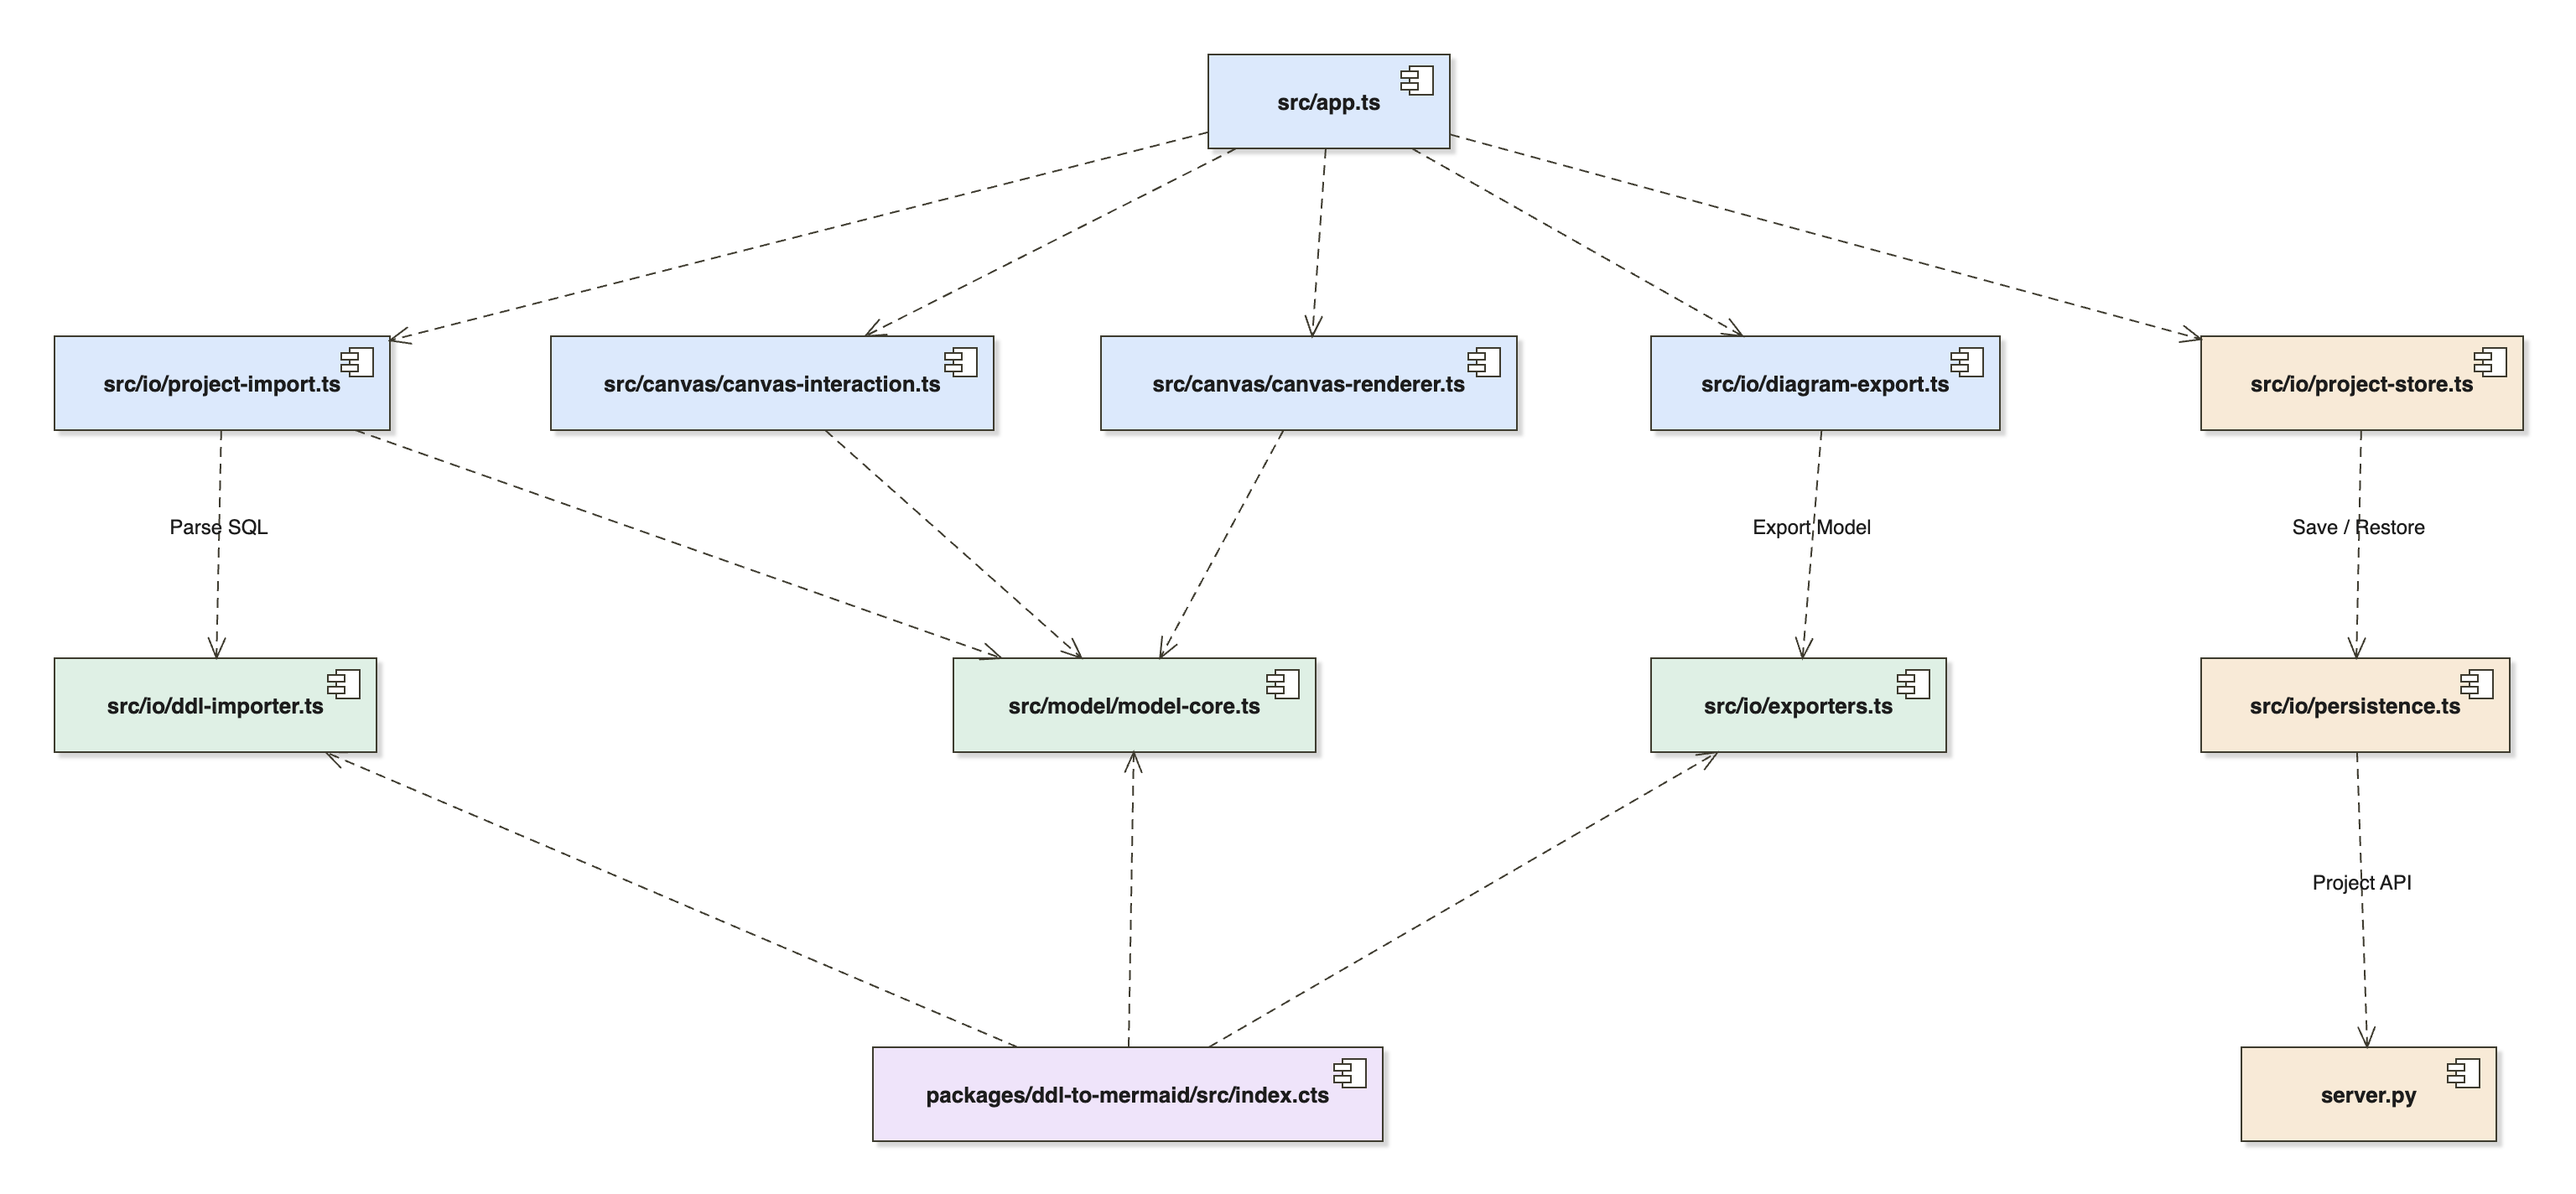
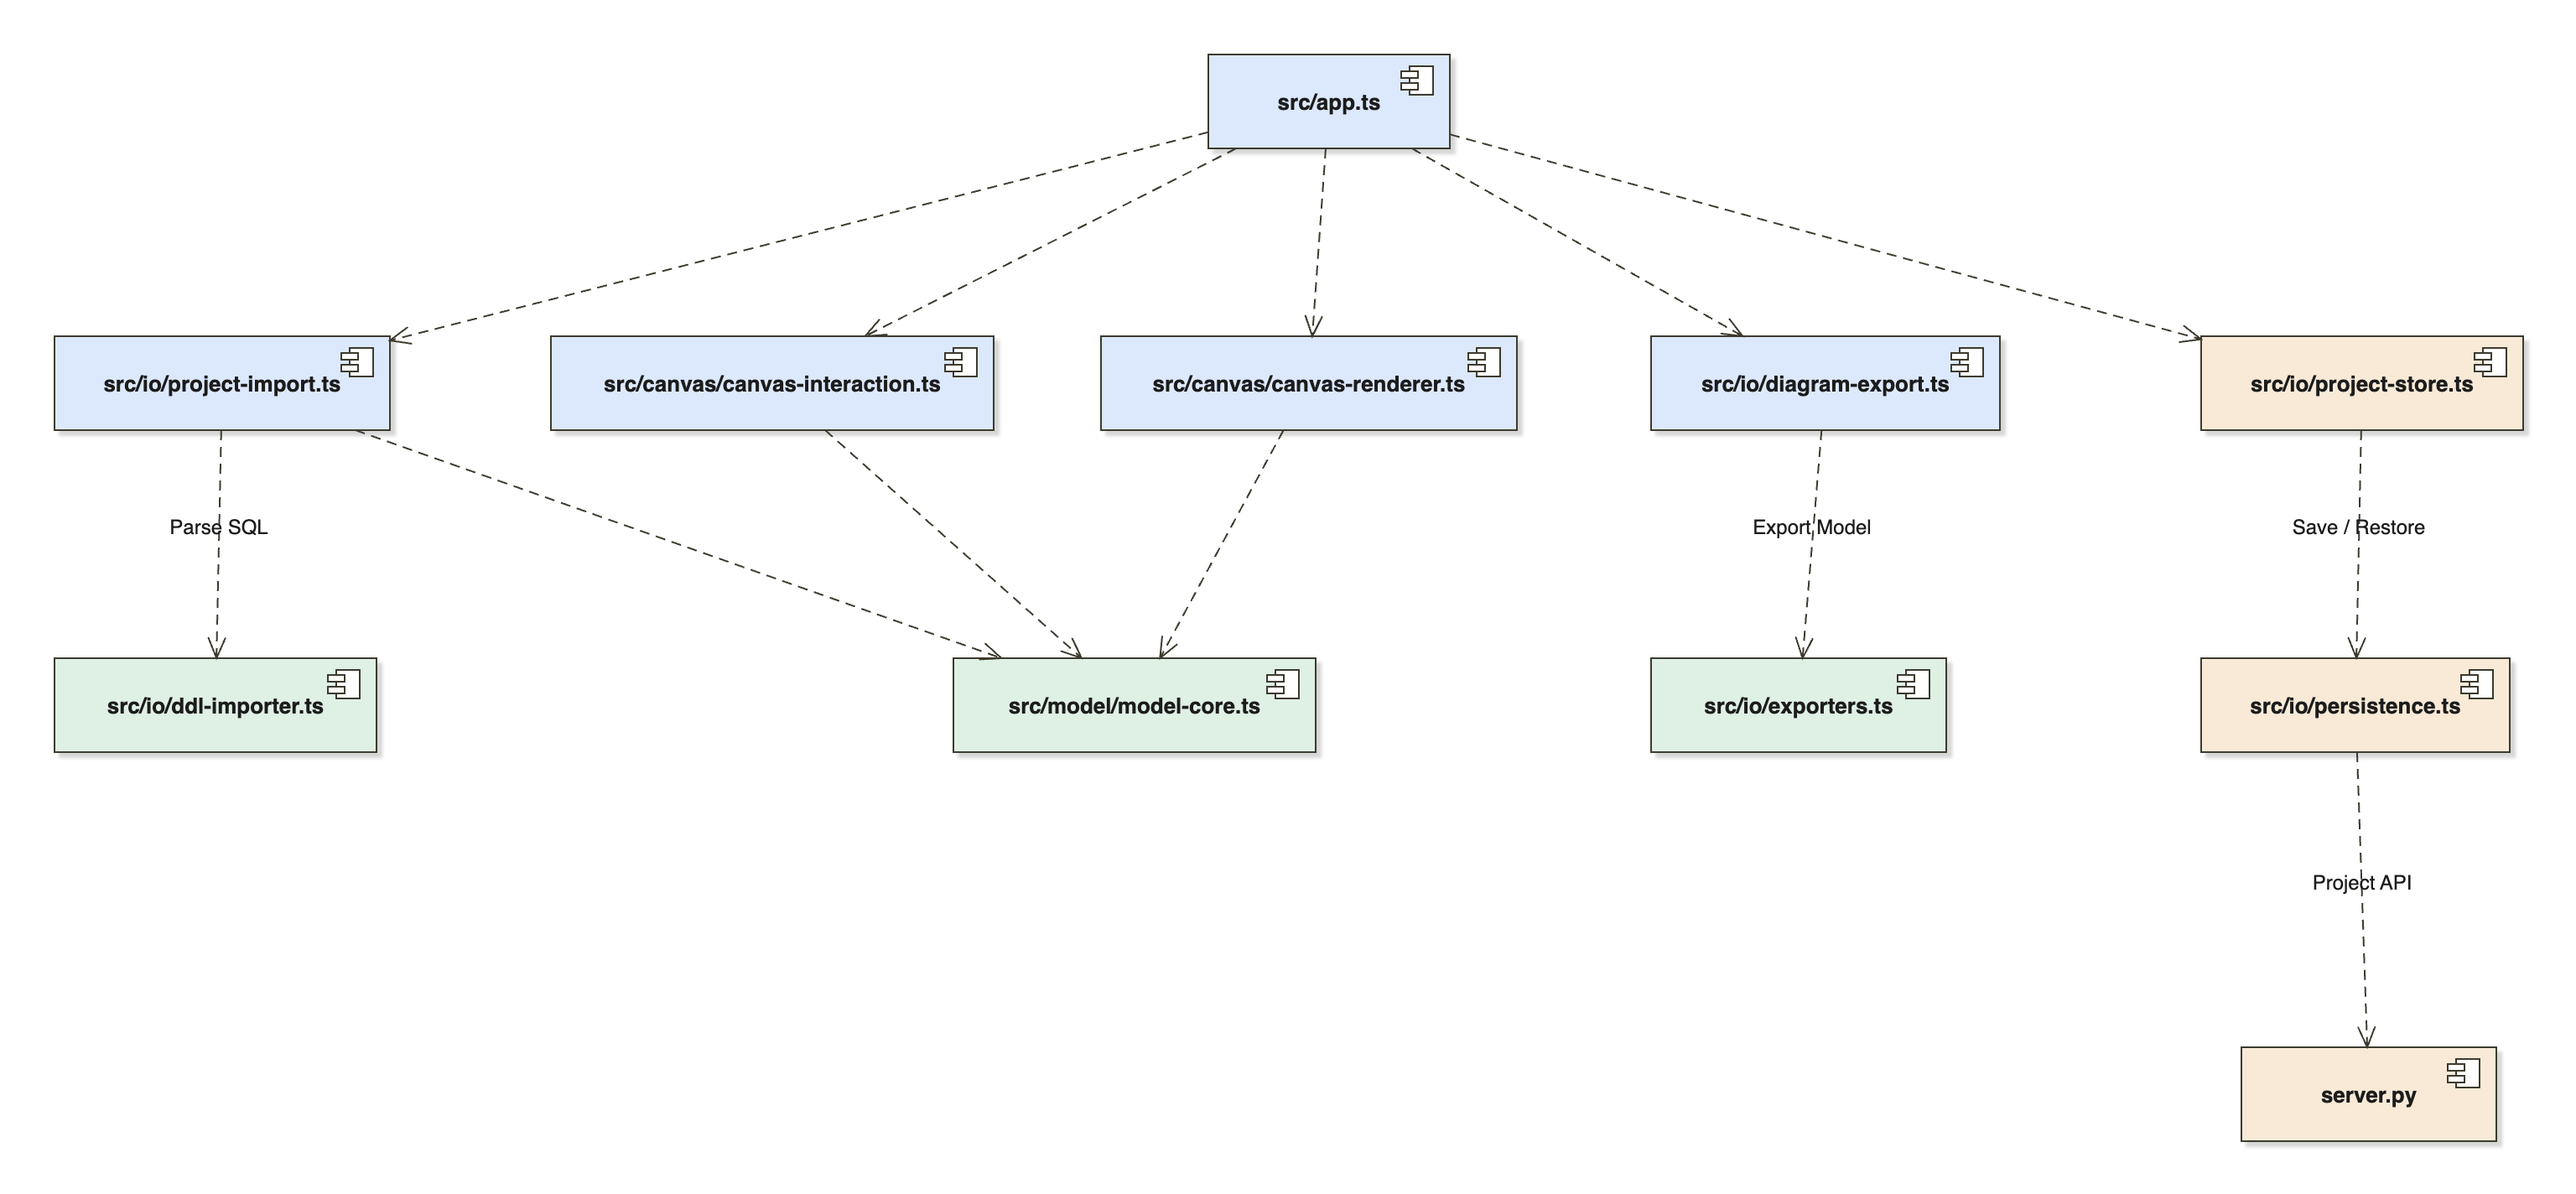
docs: remove the npm package from the component diagram

Changed region(s): [[0.3125, 0.8652, 0.5625, 0.9579]]

diff --git a/README.md b/README.md
@@ -111,11 +111,11 @@ The status bar announces canvas selection and scrolls off-screen selections into
 
 ### Components
 
-`src/app.ts` wires together canvas input, SVG rendering, project import and export, and persistence. The editor and the `uml-studio-ddl-to-mermaid` npm package share the DDL parser, model hydration, and exporters.
+`src/app.ts` wires together canvas input, SVG rendering, project import and export, and persistence.
 
-![Component diagram showing editor modules, shared conversion code, and the Python project storage API](docs/images/architecture-components.png)
+![Component diagram showing the browser editor modules and the Python project storage API](docs/images/architecture-components.png)
 
-_Editor modules, shared DDL conversion code, and the project storage API._
+_Editor modules and the project storage API._
 
 ### Deployment
 
